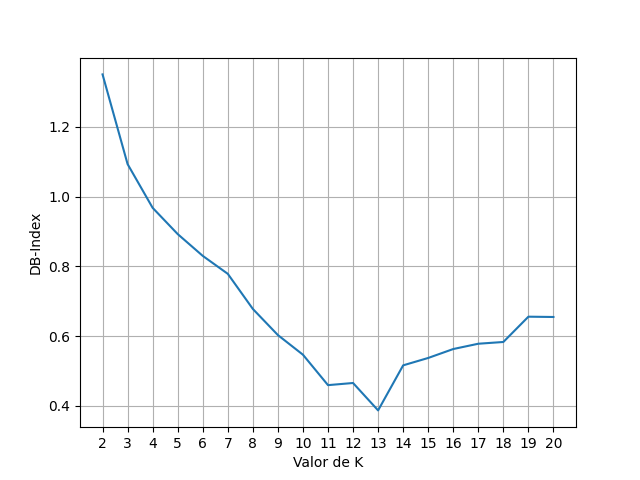
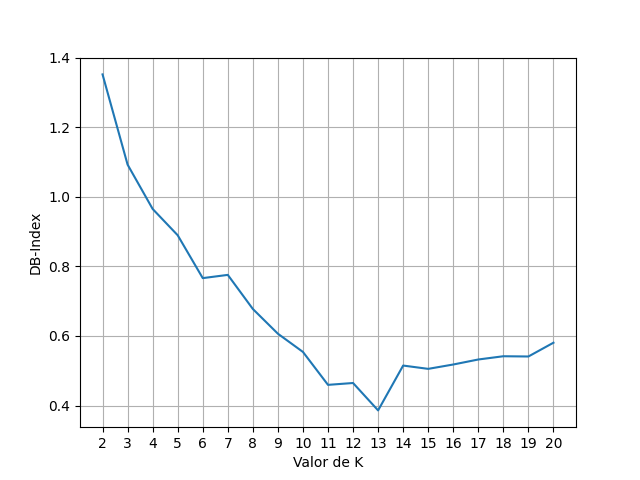
fixing

diff --git a/src/check_point4.py b/src/check_point4.py
@@ -140,7 +140,7 @@ class Clustering:
            }
         
         partScores = { 'DB-Index': [], 'Silhouette': [], 'CR-Index': []}
-        X_train, X_test, Y_train, Y_test = train_test_split(X, y, test_size=0.10, random_state=50)
+        X_train, X_test, Y_train, Y_test = train_test_split(X, y, test_size=0.40, random_state=50)
         
         
         #print(Y_train)
@@ -225,13 +225,13 @@ class Clustering:
         }
         
         
-        X_train, X_test, Y_train, Y_test = train_test_split(X, y, test_size=0.30, random_state=50)
+        X_train, X_test, Y_train, Y_test = train_test_split(X, y, test_size=0.40, random_state=50)
         for k in ks:
             model = AgglomerativeClustering(n_clusters=k).fit(X_train)
             labels = model.labels_
             #clusters = model.n_clusters_
             
-            predict_labels = model.fit_predict(X_test)
+            #predict_labels = model.fit_predict(X_test)
             
             
             db_index = davies_bouldin_score(X_train, labels)
